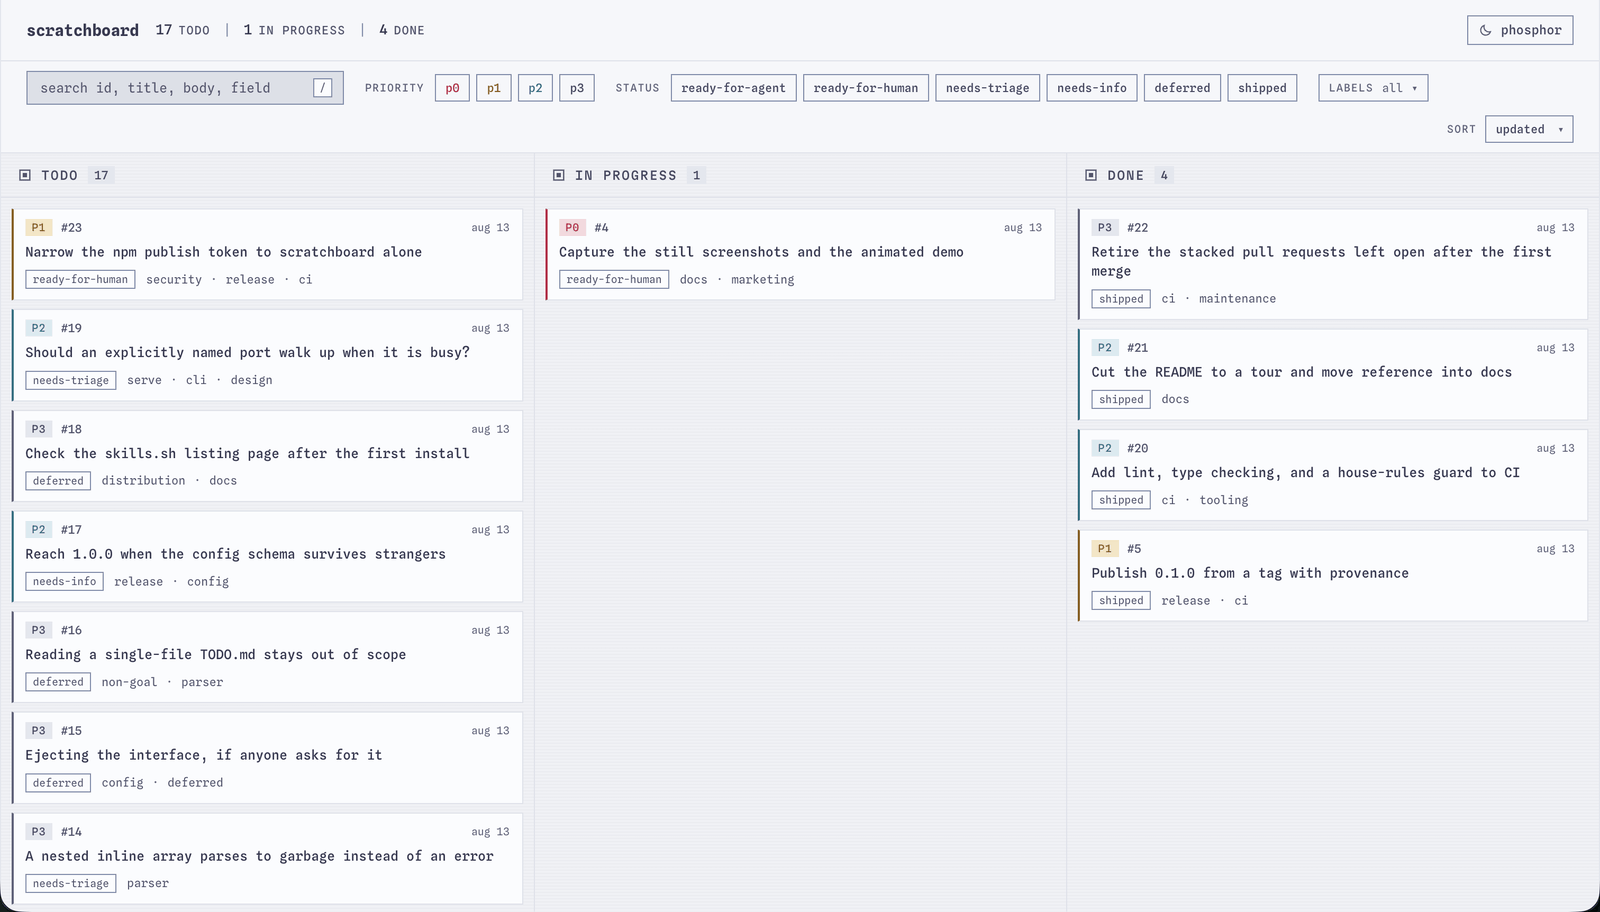
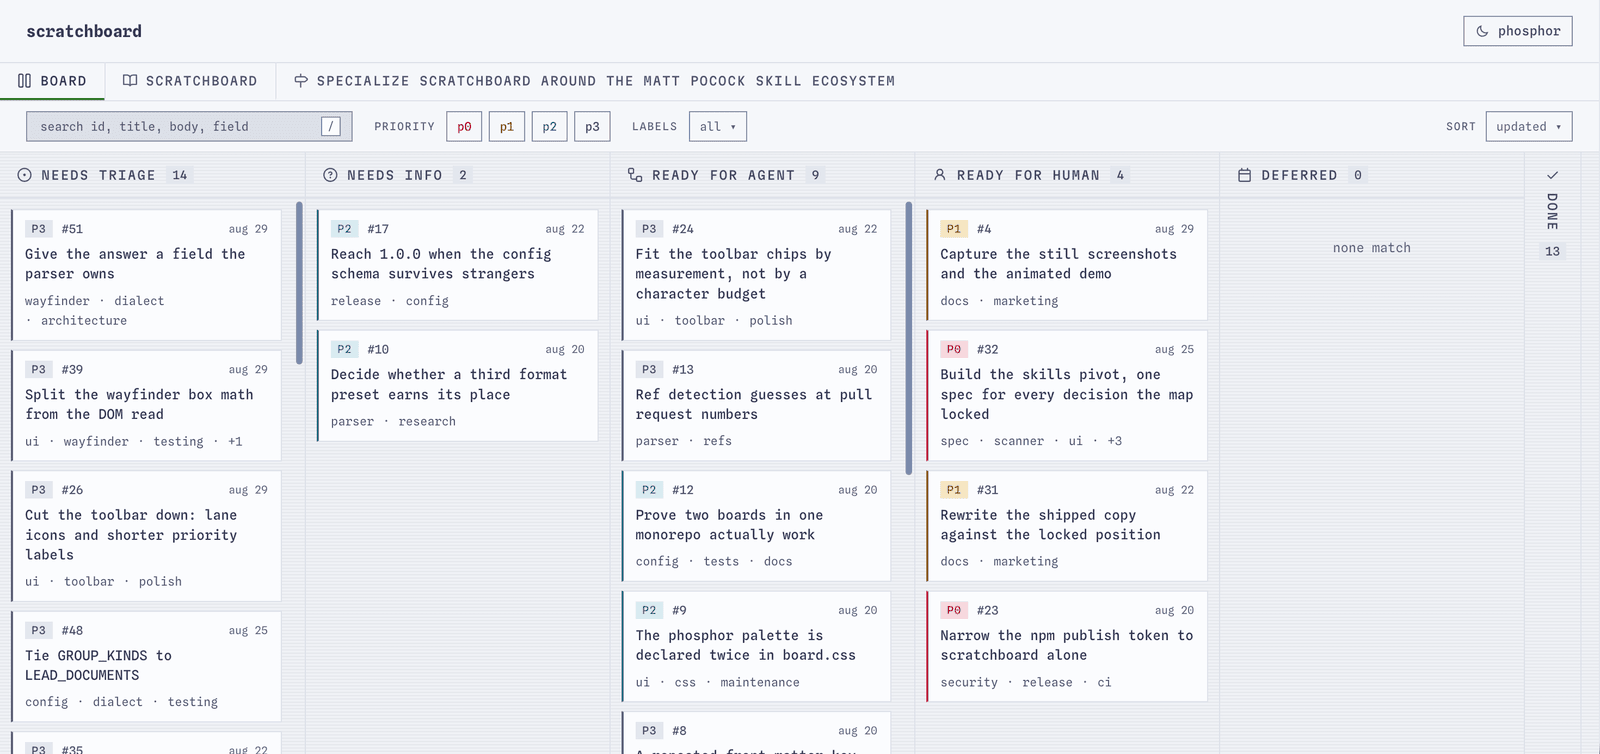
Refresh the README captures and the config example
Recapture both stills and the tour on the current board, cut the tour to 8.8 seconds, and describe what it actually shows rather than the filtering the old one did. Add the lane icon key to the config example, which shipped in 0.4.0 and only reference.md carried.

diff --git a/README.md b/README.md
@@ -20,7 +20,7 @@ It owns no directory and no file format: it reads the layout your repo already h
 
 <p><code>npx scratchboard</code></p>
 
-<img src="assets/board-tour.gif" alt="Filtering the board by priority and status, sorting it, then opening a ticket" width="800">
+<img src="assets/board-tour.gif" alt="A board of five lanes, then a ticket opening into a drawer that shows its metadata, its body, and a button that copies its path" width="800">
 
 </div>
 
@@ -115,9 +115,9 @@ than a location, so a ticket never gets moved to join one.
   "format": "yaml-frontmatter",
   "idPattern": "^(\\d+)-",
   "lanes": [
-    { "name": "Todo",        "match": { "path": ".scratch/todo/**" } },
-    { "name": "In progress", "match": { "path": ".scratch/in-progress/**" } },
-    { "name": "Done",        "match": { "path": ".scratch/done/**" }, "collapsed": true }
+    { "name": "Todo",        "icon": "issue-opened", "match": { "path": ".scratch/todo/**" } },
+    { "name": "In progress", "icon": "workflow",      "match": { "path": ".scratch/in-progress/**" } },
+    { "name": "Done",        "icon": "check",         "match": { "path": ".scratch/done/**" }, "collapsed": true }
   ],
   "facets": [
     { "field": "priority", "icon": "alert", "colors": { "p0": "red", "p1": "amber", "p2": "cyan", "p3": "neutral" } },
@@ -129,6 +129,9 @@ than a location, so a ticket never gets moved to join one.
 A `priority` of `p0` to `p3`, or of `critical` to `low`, is ranked and coloured with no config at
 all, and so is a `status`. Naming `colors` or `order` yourself replaces the default. Detection
 leaves a vocabulary it does not recognise alone rather than guessing at it.
+
+`icon` marks a lane header or a facet from a small curated set. A lane that names none carries no
+glyph, so the headers stay quiet until you ask for them.
 
 Every key, every flag, the glob tokens, the lane and facet rules, the icon set, and what
 detection does in full: [`docs/reference.md`](./docs/reference.md).
